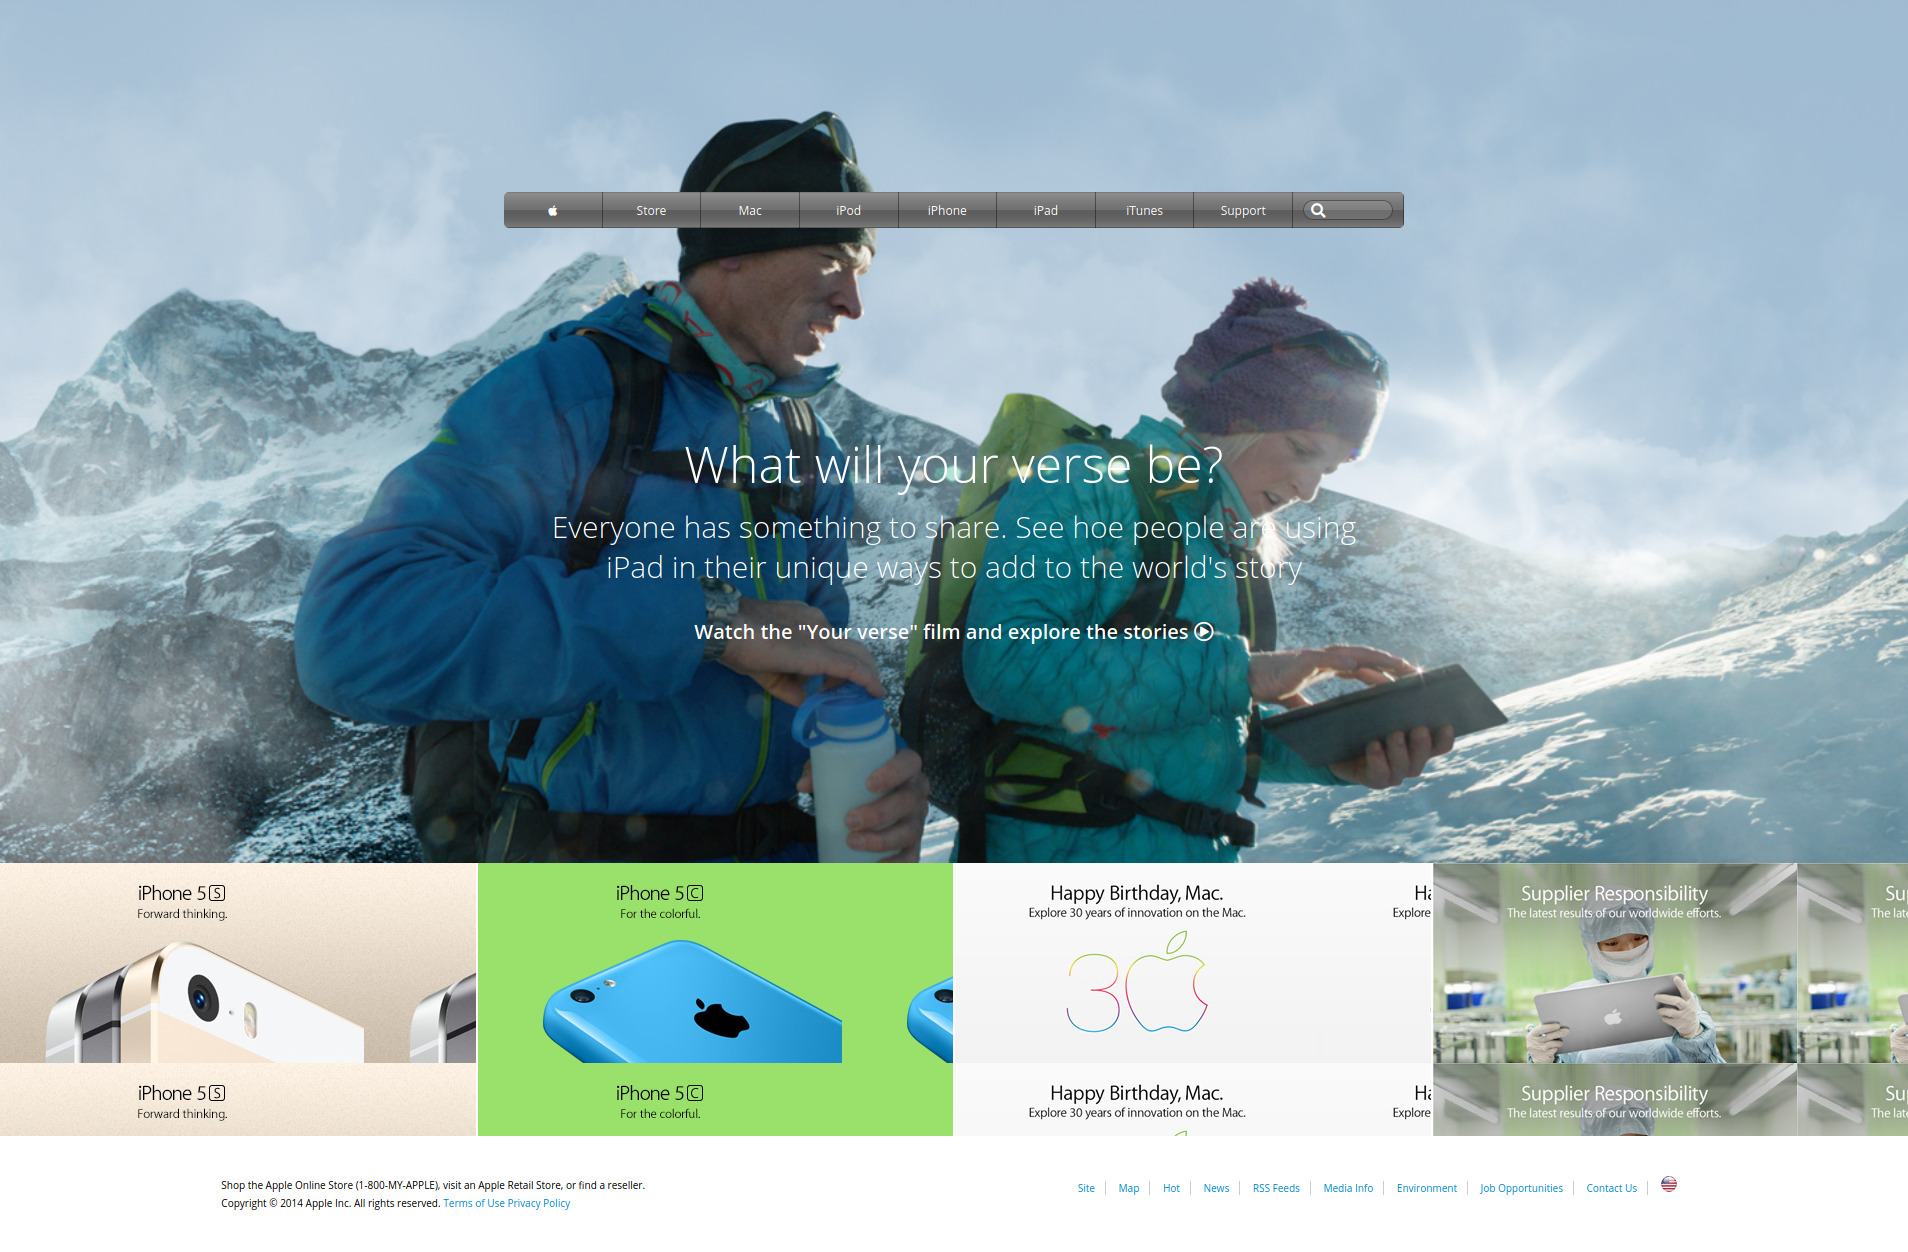
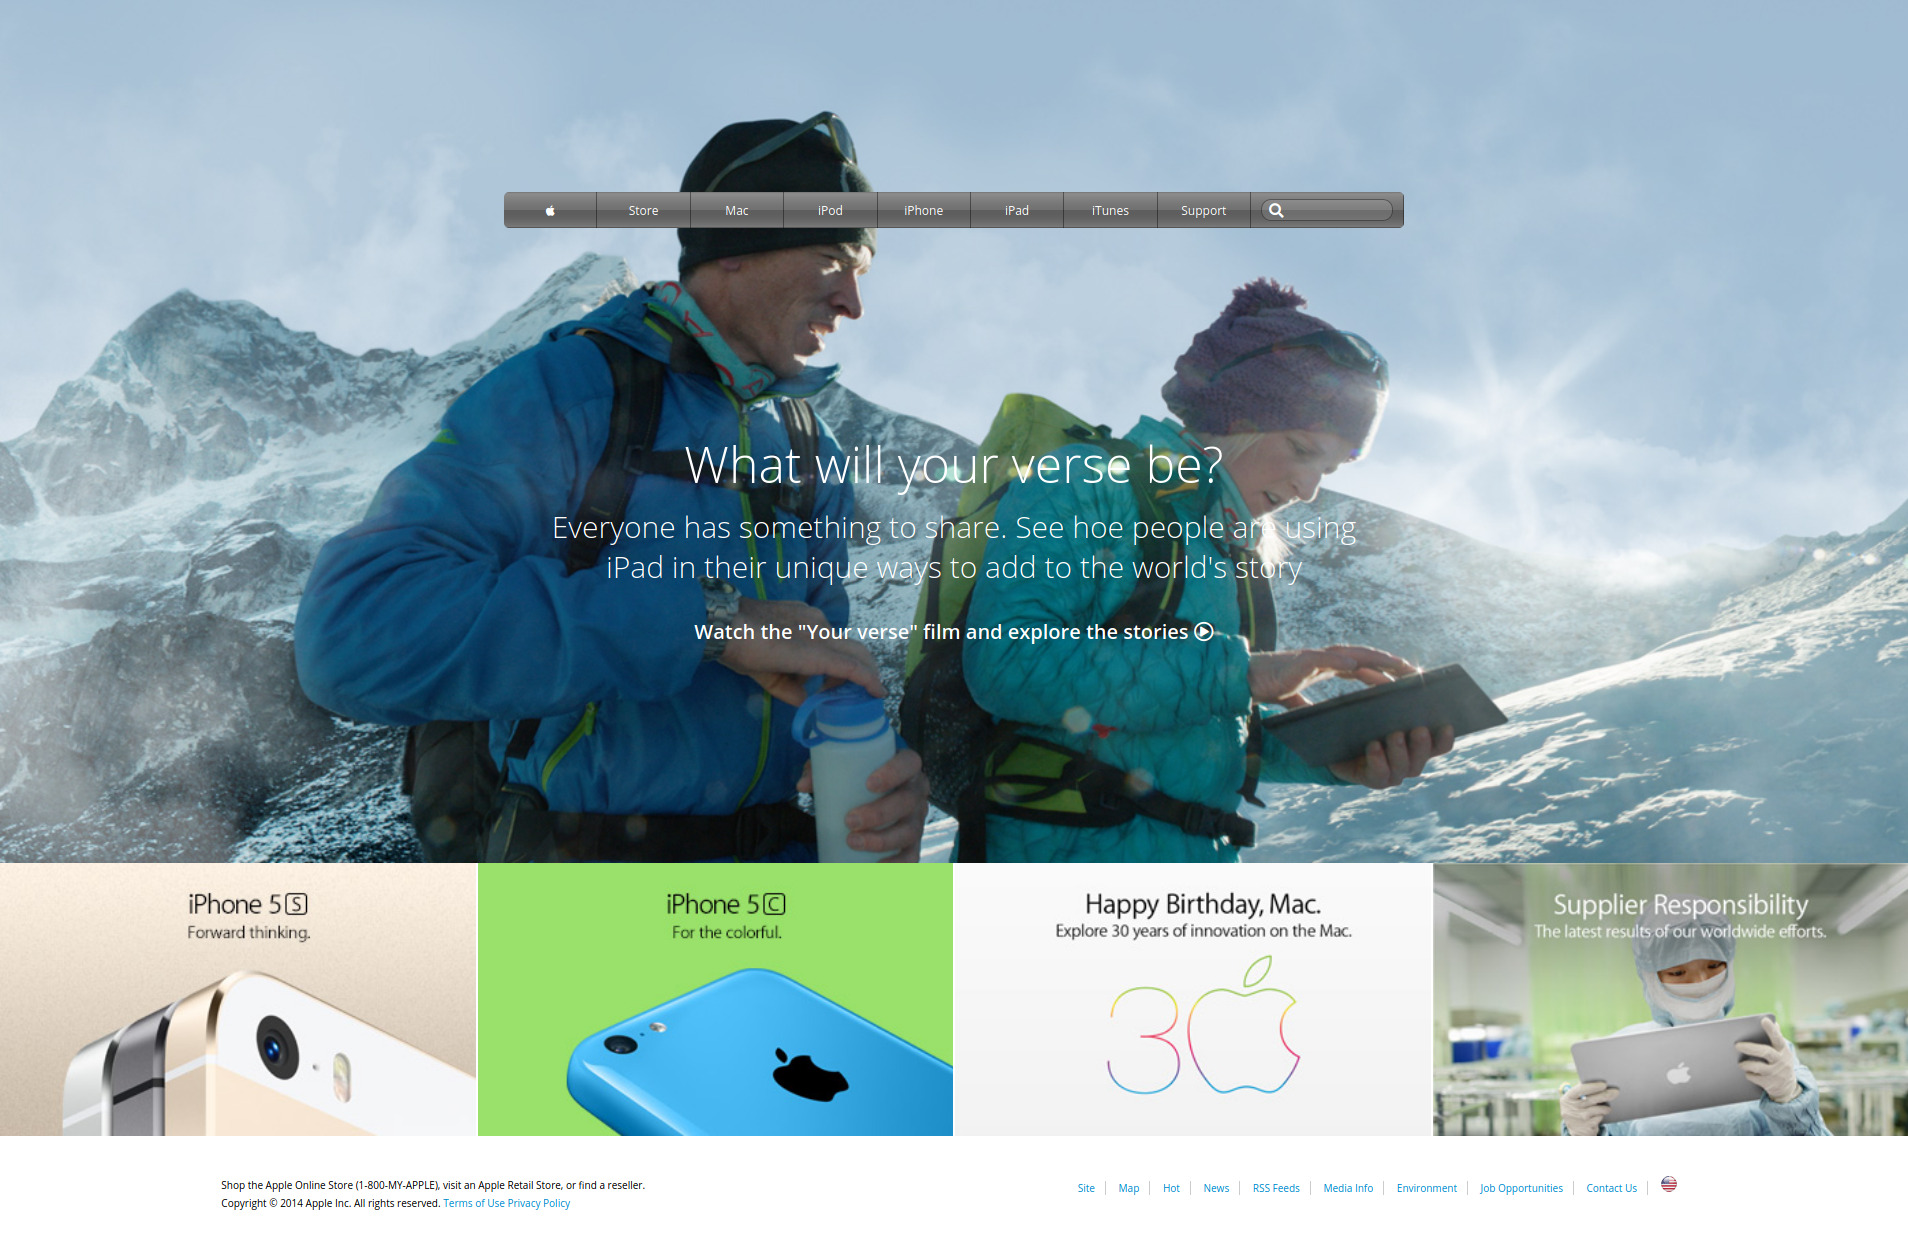
Fix product images

diff --git a/src/style.css b/src/style.css
@@ -126,16 +126,24 @@ ul li:last-child {
 
 .fives {
   background-image: url("https://web.archive.org/web/20140301004610im_/http://images.apple.com/home/images/promo_iphone5s.jpg");
+  background-repeat: no-repeat;
+  background-size: cover;
 }
 
 .fivec {
   background-image: url("https://web.archive.org/web/20140301004610im_/http://images.apple.com/home/images/promo_iphone5c.jpg");
+  background-repeat: no-repeat;
+  background-size: cover;
 }
 
 .mac {
   background-image: url("https://web.archive.org/web/20140301004610im_/http://images.apple.com/home/images/promo_30_years.jpg");
+  background-repeat: no-repeat;
+  background-size: cover;
 }
 
 .supplier {
   background-image: url("https://web.archive.org/web/20140301004610im_/http://images.apple.com/home/images/promo_supplier_responsibility.jpg");
+  background-repeat: no-repeat;
+  background-size: cover;
 }
